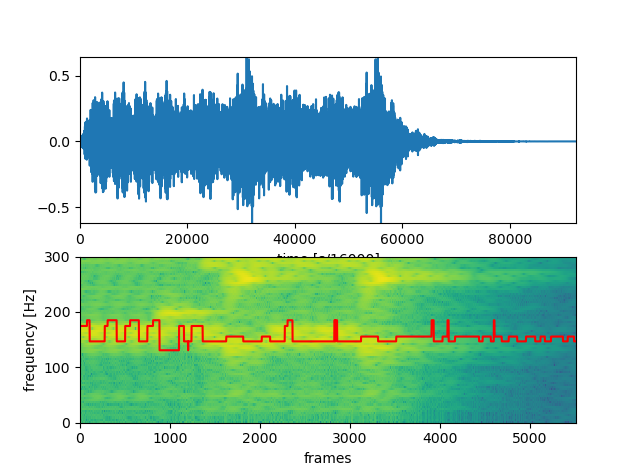
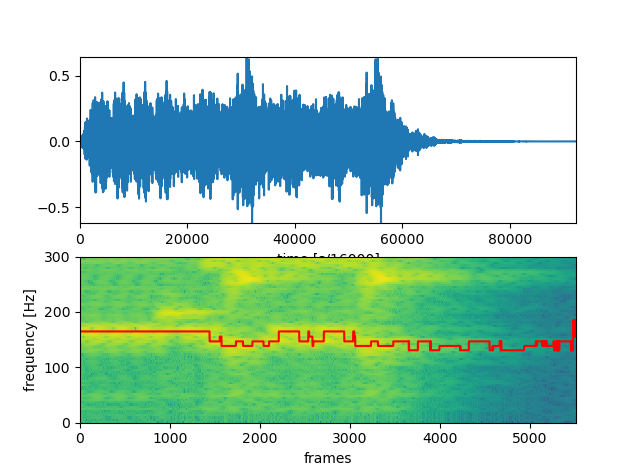
fix exercise17, 18

Changed region(s): [[0.125, 0.6484, 0.9062, 0.7663]]

diff --git a/exercise/exercise17/melody_woman.py b/exercise/exercise17/melody_woman.py
@@ -29,15 +29,20 @@ def hz2nn(frequency):
 	return int (round (12.0 * (np.log(frequency / 440.0) / np.log (2.0)))) + 69
 
 # ノートナンバーから対応する全高調波成分の振幅の総和を計算
-def calc_melody_likelihood(spectrum, notenum, frequencies):
+def calc_melody_likelihood(spectrum, notenum):
+	fundamental_frequency = nn2hz(notenum)	#ノートナンバーに対応する周波数
 	melody_likelihood = 0
-	amplitude_ratio = 1.0	# 減衰比
-	fundamental_frequency = int(nn2hz(notenum))		#ノートナンバーに対応する周波数の整数部分
-	# スペクトルの周波数ビン毎にノートナンバーに対応していれば振幅スペクトルを傾斜をかけて足す
-	for s, f in zip (spectrum, frequencies) :
-		if int(f) % fundamental_frequency == 0 : 	# 整数部分が一致していれば対応しているとした
-			melody_likelihood += s * amplitude_ratio
-			amplitude_ratio *= 0.25		# 倍音に減衰をかける
+
+	# 基本周波数
+	s_idx = int(len(spectrum * 1) * (fundamental_frequency / (SR/2)))
+	melody_likelihood += spectrum[s_idx]
+	# 2倍音
+	s_idx = int(len(spectrum * 2) * (fundamental_frequency / (SR/2)))
+	melody_likelihood += spectrum[s_idx] * 0.75
+	# 3倍音
+	s_idx = int(len(spectrum * 3) * (fundamental_frequency / (SR/2)))
+	melody_likelihood += spectrum[s_idx] * 0.50
+
 	return melody_likelihood
 
 #####################################################################
@@ -77,14 +82,11 @@ if __name__ == "__main__":
 		# 計算した対数振幅スペクトログラムを配列に保存
 		spectrogram.append(fft_log_abs_spec)
 
-		# 周波数ビンを取得
-		frequencies = np.linspace(SR/len(fft_abs_spec), SR, len(fft_abs_spec))
-
 		# 対数振幅スペクトログラムから、ノートナンバーに対応する周波数の振幅の総和を取得
 		frame_likelihood = 0
 		frame_index = 0
 		for i in range(low_pitch, high_pitch):
-			melody_likelihood = calc_melody_likelihood(fft_abs_spec, i, frequencies)
+			melody_likelihood = calc_melody_likelihood(fft_abs_spec, i)
 			if melody_likelihood > frame_likelihood :
 				frame_index = i
 				frame_likelihood = melody_likelihood

diff --git a/exercise/exercise17/melody_voice.py b/exercise/exercise17/melody_voice.py
@@ -29,15 +29,20 @@ def hz2nn(frequency):
 	return int (round (12.0 * (np.log(frequency / 440.0) / np.log (2.0)))) + 69
 
 # ノートナンバーから対応する全高調波成分の振幅の総和を計算
-def calc_melody_likelihood(spectrum, notenum, frequencies):
+def calc_melody_likelihood(spectrum, notenum):
+	fundamental_frequency = nn2hz(notenum)	#ノートナンバーに対応する周波数
 	melody_likelihood = 0
-	amplitude_ratio = 1.0	# 減衰比
-	fundamental_frequency = int(nn2hz(notenum))		#ノートナンバーに対応する周波数
-	# スペクトルの周波数ビン毎にノートナンバーに対応していれば振幅スペクトルを傾斜をかけて足す
-	for s, f in zip (spectrum, frequencies) :
-		if int(f) % fundamental_frequency == 0 : 	# 整数部分が一致していれば対応しているとした
-			melody_likelihood += s * amplitude_ratio
-			amplitude_ratio *= 0.25		# 倍音に減衰をかける
+
+	# 基本周波数
+	s_idx = int(len(spectrum * 1) * (fundamental_frequency / (SR/2)))
+	melody_likelihood += spectrum[s_idx]
+	# 2倍音
+	s_idx = int(len(spectrum * 2) * (fundamental_frequency / (SR/2)))
+	melody_likelihood += spectrum[s_idx] * 0.75
+	# 3倍音
+	s_idx = int(len(spectrum * 3) * (fundamental_frequency / (SR/2)))
+	melody_likelihood += spectrum[s_idx] * 0.50
+
 	return melody_likelihood
 
 #####################################################################
@@ -77,14 +82,11 @@ if __name__ == "__main__":
 		# 計算した対数振幅スペクトログラムを配列に保存
 		spectrogram.append(fft_log_abs_spec)
 
-		# 周波数ビンを取得
-		frequencies = np.linspace(SR/len(fft_abs_spec), SR, len(fft_abs_spec))
-
 		# 対数振幅スペクトログラムから、ノートナンバーに対応する周波数の振幅の総和を取得
 		frame_likelihood = 0
 		frame_index = 0
 		for i in range(low_pitch, high_pitch):
-			melody_likelihood = calc_melody_likelihood(fft_abs_spec, i, frequencies)
+			melody_likelihood = calc_melody_likelihood(fft_abs_spec, i)
 			if melody_likelihood > frame_likelihood :
 				frame_index = i
 				frame_likelihood = melody_likelihood

diff --git a/exercise/exercise17/melody_man.py b/exercise/exercise17/melody_man.py
@@ -29,15 +29,20 @@ def hz2nn(frequency):
 	return int (round (12.0 * (np.log(frequency / 440.0) / np.log (2.0)))) + 69
 
 # ノートナンバーから対応する全高調波成分の振幅の総和を計算
-def calc_melody_likelihood(spectrum, notenum, frequencies):
+def calc_melody_likelihood(spectrum, notenum):
+	fundamental_frequency = nn2hz(notenum)	#ノートナンバーに対応する周波数
 	melody_likelihood = 0
-	amplitude_ratio = 1.0	# 減衰比
-	fundamental_frequency = int(nn2hz(notenum))		#ノートナンバーに対応する周波数の整数部分
-	# スペクトルの周波数ビン毎にノートナンバーに対応していれば振幅スペクトルを傾斜をかけて足す
-	for s, f in zip (spectrum, frequencies) :
-		if int(f) % fundamental_frequency == 0 : 	# 整数部分が一致していれば対応しているとした
-			melody_likelihood += s * amplitude_ratio
-			amplitude_ratio *= 0.25		# 倍音に減衰をかける
+
+	# 基本周波数
+	s_idx = int(len(spectrum * 1) * (fundamental_frequency / (SR/2)))
+	melody_likelihood += spectrum[s_idx]
+	# 2倍音
+	s_idx = int(len(spectrum * 2) * (fundamental_frequency / (SR/2)))
+	melody_likelihood += spectrum[s_idx] * 0.75
+	# 3倍音
+	s_idx = int(len(spectrum * 3) * (fundamental_frequency / (SR/2)))
+	melody_likelihood += spectrum[s_idx] * 0.50
+
 	return melody_likelihood
 
 #####################################################################
@@ -84,7 +89,7 @@ if __name__ == "__main__":
 		frame_likelihood = 0
 		frame_index = 0
 		for i in range(low_pitch, high_pitch):
-			melody_likelihood = calc_melody_likelihood(fft_abs_spec, i, frequencies)
+			melody_likelihood = calc_melody_likelihood(fft_abs_spec, i)
 			if melody_likelihood > frame_likelihood :
 				frame_index = i
 				frame_likelihood = melody_likelihood

diff --git a/exercise/exercise18/melody_anima.py b/exercise/exercise18/melody_anima.py
@@ -29,15 +29,20 @@ def hz2nn(frequency):
 	return int (round (12.0 * (np.log(frequency / 440.0) / np.log (2.0)))) + 69
 
 # ノートナンバーから対応する全高調波成分の振幅の総和を計算
-def calc_melody_likelihood(spectrum, notenum, frequencies):
+def calc_melody_likelihood(spectrum, notenum):
+	fundamental_frequency = nn2hz(notenum)	#ノートナンバーに対応する周波数
 	melody_likelihood = 0
-	amplitude_ratio = 1.0	# 減衰比
-	fundamental_frequency = int(nn2hz(notenum))		#ノートナンバーに対応する周波数の整数部分
-	# スペクトルの周波数ビン毎にノートナンバーに対応していれば振幅スペクトルを傾斜をかけて足す
-	for s, f in zip (spectrum, frequencies) :
-		if int(f) % fundamental_frequency == 0 : 	# 整数部分が一致していれば対応しているとした
-			melody_likelihood += s * amplitude_ratio
-			amplitude_ratio *= 0.25		# 倍音に減衰をかける
+
+	# 基本周波数
+	s_idx = int(len(spectrum * 1) * (fundamental_frequency / (SR/2)))
+	melody_likelihood += spectrum[s_idx]
+	# 2倍音
+	s_idx = int(len(spectrum * 2) * (fundamental_frequency / (SR/2)))
+	melody_likelihood += spectrum[s_idx] * 0.75
+	# 3倍音
+	s_idx = int(len(spectrum * 3) * (fundamental_frequency / (SR/2)))
+	melody_likelihood += spectrum[s_idx] * 0.50
+
 	return melody_likelihood
 
 #####################################################################
@@ -84,7 +89,7 @@ if __name__ == "__main__":
 		frame_likelihood = 0
 		frame_index = 0
 		for i in range(low_pitch, high_pitch):
-			melody_likelihood = calc_melody_likelihood(fft_abs_spec, i, frequencies)
+			melody_likelihood = calc_melody_likelihood(fft_abs_spec, i)
 			if melody_likelihood > frame_likelihood :
 				frame_index = i
 				frame_likelihood = melody_likelihood
